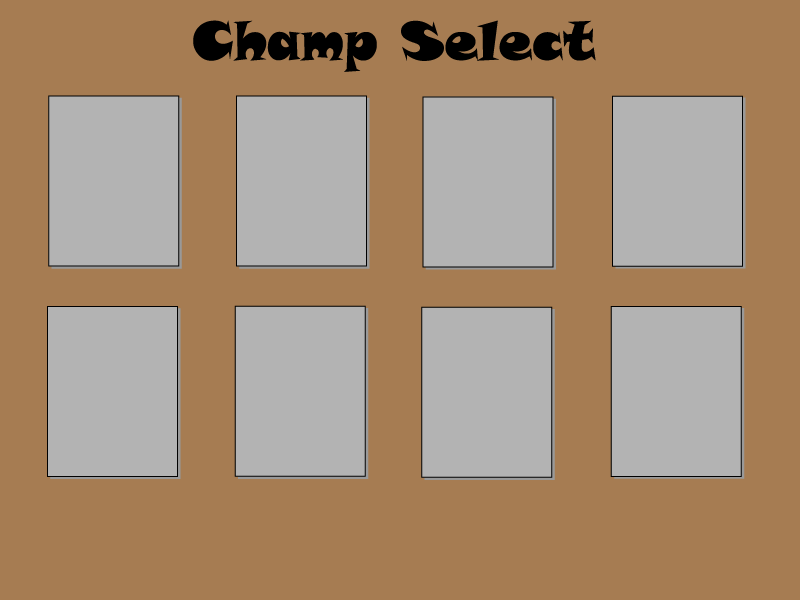
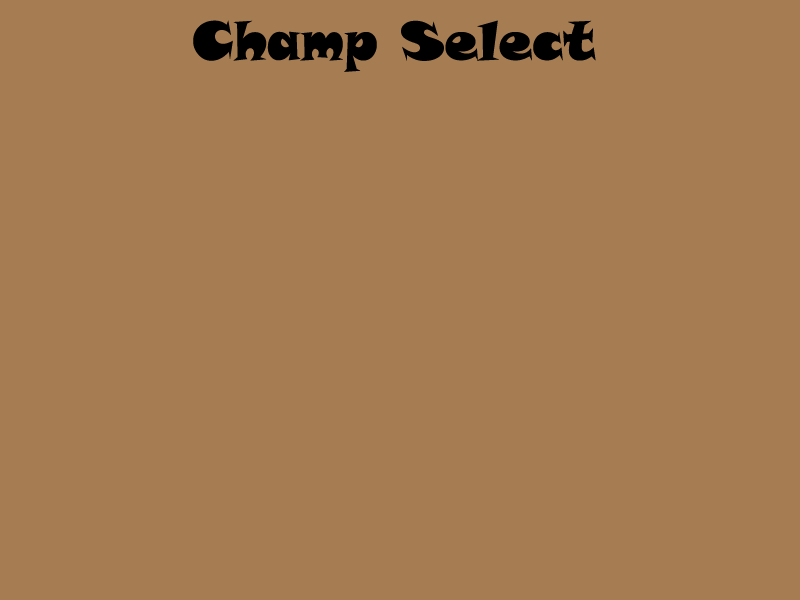
champ_select

diff --git a/play/game.py b/play/game.py
@@ -2,53 +2,119 @@
 
 #import
 import pygame
-from play.character import Player
+import math
+from play.map import Map
+from play.player import Player
+from champ_select.champ_select import Avatar
+
 
 class Game:
 
     def __init__(self, screen) :
-        self.pressed = {}
-        self.player = Player(screen, self.pressed)
+        
+        self.map = Map(screen)
+        # self.player = Player(screen)
+        self.champ_select = Avatar(screen)
+        # Permet de définir la dernière direction du personnage
         self.last_movement = "up"
-        self.validation_movement = False
+        #Calcul le nombre de tour pour changer l'image du personnage
+        self.move = 0
+        self.pressed = {}
+        self.validation_champ_select = True
+        self.selected_champ = False
+        self.avatar_choose = 0
+        self.play = False
+        self.list_image_avatar_x = [self.champ_select.avatar1_image_rect.x, self.champ_select.avatar2_image_rect.x, 
+        self.champ_select.avatar3_image_rect.x, self.champ_select.avatar4_image_rect.x, self.champ_select.avatar5_image_rect.x, 
+        self.champ_select.avatar6_image_rect.x, self.champ_select.avatar7_image_rect.x, self.champ_select.avatar8_image_rect.x]
+
+        self.list_image_avatar_y = [self.champ_select.avatar1_image_rect.y, self.champ_select.avatar2_image_rect.y, 
+        self.champ_select.avatar3_image_rect.y, self.champ_select.avatar4_image_rect.y, self.champ_select.avatar5_image_rect.y, 
+        self.champ_select.avatar6_image_rect.y, self.champ_select.avatar7_image_rect.y, self.champ_select.avatar8_image_rect.y]
+
+        # self.list_avatar = ["avatar1", "avatar2", "avatar3", "avatar4", "avatar5", "avatar6", "avatar7", "avatar8"]
+
 
 
     def update(self, screen):
 
+        # self.player.avatar = self.list_avatar[self.avatar_choose]
+        if self.play :
+            self.movement(screen)
+            screen.blit(self.map.background_desert, self.map.background_desert_rect)
+            screen.blit(self.player.character_image, self.player.character_image_rect)       
 
-        self.movement(screen)
-        screen.blit(self.player.character_image, self.player.character_image_rect)       
+        if self.validation_champ_select :
+            screen.blit(self.champ_select.background_champ_select, (0,0))
+            if self.selected_champ :
+                pygame.draw.rect(screen,(0,0,255),(self.list_image_avatar_x[self.avatar_choose], self.list_image_avatar_y[self.avatar_choose], self.champ_select.avatar1_image.get_width(), self.champ_select.avatar1_image.get_height()))
+            self.champ_select.update(screen)
 
+    def create_player(self, screen, index):
+        self.player = Player(screen, index)
 
     def movement(self, screen) :
 
-        if self.pressed.get(pygame.K_RIGHT) and self.player.character_image_rect.x + self.player.velocity < screen.get_width() - self.player.character_image.get_width():
-            self.player.move_right()
+        # si telle touche est pressée, j'appelle la fonction pour déplacer la carte
+        if self.pressed.get(pygame.K_RIGHT) :# and self.map.background_desert_rect.x + self.player.velocity < self.map.background_desert.get_width():
+            self.move_right()
             self.last_movement = "right"
 
-        elif self.pressed.get(pygame.K_LEFT) and self.player.character_image_rect.x - self.player.velocity > 0:
-            self.player.move_left()
+        elif self.pressed.get(pygame.K_LEFT) :# and self.map.background_desert_rect.x > - 3200 :
+            self.move_left()
             self.last_movement = "left"
 
-        elif self.pressed.get(pygame.K_UP) and self.player.character_image_rect.y - self.player.velocity > 0 :
-            self.player.move_up()
+        elif self.pressed.get(pygame.K_UP) : #and self.map.background_desert_rect.y > - 3200 :
+            self.move_up()
             self.last_movement = "up"
 
-        elif self.pressed.get(pygame.K_DOWN) and self.player.character_image_rect.y + self.player.velocity < screen.get_height() - self.player.character_image.get_height():
-            self.player.move_down()
+        elif self.pressed.get(pygame.K_DOWN): # and self.map.background_desert_rect.y + self.player.velocity < self.map.background_desert.get_height():
+            self.move_down()
             self.last_movement = "down"
 
+
+        # Met dans la position arrêt le personnage
         if self.pressed.get(pygame.K_RIGHT) == False and self.last_movement == "right" :
-            self.player.character_image = pygame.image.load("images/ressources/avatar1/character_right.png")
+            self.player.character_image = pygame.image.load(f"images/ressources/{self.player.avatar}/character_right.png")
 
         elif self.pressed.get(pygame.K_LEFT) == False and self.last_movement == "left" :
-            self.player.character_image = pygame.image.load("images/ressources/avatar1/character_left.png")
+            self.player.character_image = pygame.image.load(f"images/ressources/{self.player.avatar}/character_left.png")
 
         elif self.pressed.get(pygame.K_UP) == False and self.last_movement == "up" :
-            self.player.character_image = pygame.image.load("images/ressources/avatar1/character_up.png")
+            self.player.character_image = pygame.image.load(f"images/ressources/{self.player.avatar}/character_up.png")
 
         elif self.pressed.get(pygame.K_DOWN) == False and self.last_movement == "down" :
-            self.player.character_image = pygame.image.load("images/ressources/avatar1/character_down.png")
+            self.player.character_image = pygame.image.load(f"images/ressources/{self.player.avatar}/character_down.png")
+
+
+
+    def move_right(self):
+
+        self.map.background_desert_rect.x -= self.player.velocity
+        self.change_image(f"images/ressources/{self.player.avatar}/character_right.png", f"images/ressources/{self.player.avatar}/character_right_move.png" )
+
+    def move_left(self):
+        self.map.background_desert_rect.x += self.player.velocity
+        self.change_image(f"images/ressources/{self.player.avatar}/character_left.png", f"images/ressources/{self.player.avatar}/character_left_move.png" )
+
+    def move_up(self):
+        self.map.background_desert_rect.y += self.player.velocity
+        self.change_image(f"images/ressources/{self.player.avatar}/character_up.png", f"images/ressources/{self.player.avatar}/character_up_move.png" )
+
+    def move_down(self):
+        self.map.background_desert_rect.y -= self.player.velocity
+        self.change_image(f"images/ressources/{self.player.avatar}/character_down.png", f"images/ressources/{self.player.avatar}/character_down_move.png" )
+
+    
+    def change_image(self, not_move, move):
+        # Pour chaque tour de boucle, move s'agrémente, a partir de 15 l'image change, et se remet normal au bout de 45 tour 
+        self.move += 1
+        if (self.move >= 0 and self.move <= 15) or self.move >= 45 : 
+            self.player.character_image = pygame.image.load(not_move)
+        else : 
+            self.player.character_image = pygame.image.load(move)
+        if self.move == 60 :
+            self.move = 0 
 
 
         

diff --git a/champ_select/champ_select.py b/champ_select/champ_select.py
@@ -1,0 +1,84 @@
+# coding: utf-8
+
+#import
+import pygame
+import math
+import math
+
+class Avatar :
+
+    def __init__(self, screen):
+
+        
+
+        self.background_champ_select = pygame.image.load("images/bg/background_champ_select.png").convert_alpha()
+        self.background_champ_select = pygame.transform.scale(self.background_champ_select, (screen.get_width(), screen.get_height()))
+
+        self.avatar1_image = pygame.image.load("images/ressources/avatar1/character_down.png")
+        self.avatar1_image = pygame.transform.scale(self.avatar1_image, (math.ceil(screen.get_height() / 6), math.ceil(screen.get_width() / 4)))
+        self.avatar1_image_rect = self.avatar1_image.get_rect()
+        self.avatar1_image_rect.x = math.ceil(screen.get_width() / 15.6)
+        self.avatar1_image_rect.y = screen.get_height() / 4.8
+
+        self.avatar2_image = pygame.image.load("images/ressources/avatar2/character_down.png")
+        self.avatar2_image = pygame.transform.scale(self.avatar2_image, (math.ceil(screen.get_height() / 6), math.ceil(screen.get_width() / 4)))
+        self.avatar2_image_rect = self.avatar2_image.get_rect()
+        self.avatar2_image_rect.x =  math.ceil(screen.get_width() / 3.33)
+        self.avatar2_image_rect.y = self.avatar1_image_rect.y
+
+        self.avatar3_image = pygame.image.load("images/ressources/avatar3/character_down.png")
+        self.avatar3_image = pygame.transform.scale(self.avatar3_image, (math.ceil(screen.get_height() / 6), math.ceil(screen.get_width() / 4)))
+        self.avatar3_image_rect = self.avatar3_image.get_rect()
+        self.avatar3_image_rect.x = math.ceil(screen.get_width() / 1.88)
+        self.avatar3_image_rect.y = self.avatar1_image_rect.y
+
+        self.avatar4_image = pygame.image.load("images/ressources/avatar4/character_down.png")
+        self.avatar4_image = pygame.transform.scale(self.avatar4_image, (math.ceil(screen.get_height() / 6), math.ceil(screen.get_width() / 4)))
+        self.avatar4_image_rect = self.avatar4_image.get_rect()
+        self.avatar4_image_rect.x = math.ceil(screen.get_width() / 1.3)
+        self.avatar4_image_rect.y = self.avatar1_image_rect.y
+
+        self.avatar5_image = pygame.image.load("images/ressources/avatar5/character_down.png")
+        self.avatar5_image = pygame.transform.scale(self.avatar5_image, (math.ceil(screen.get_height() / 6), math.ceil(screen.get_width() / 4)))
+        self.avatar5_image_rect = self.avatar5_image.get_rect()
+        self.avatar5_image_rect.x = math.ceil(screen.get_width() / 15.6)
+        self.avatar5_image_rect.y = screen.get_height() / 1.78
+
+        self.avatar6_image = pygame.image.load("images/ressources/avatar6/character_down.png")
+        self.avatar6_image = pygame.transform.scale(self.avatar6_image, (math.ceil(screen.get_height() / 6), math.ceil(screen.get_width() / 4)))
+        self.avatar6_image_rect = self.avatar6_image.get_rect()
+        self.avatar6_image_rect.x = math.ceil(screen.get_width() / 3.33)
+        self.avatar6_image_rect.y = self.avatar5_image_rect.y
+
+        self.avatar7_image = pygame.image.load("images/ressources/avatar7/character_down.png")
+        self.avatar7_image = pygame.transform.scale(self.avatar7_image, (math.ceil(screen.get_height() / 6), math.ceil(screen.get_width() / 4)))
+        self.avatar7_image_rect = self.avatar7_image.get_rect()
+        self.avatar7_image_rect.x = math.ceil(screen.get_width() / 1.88)
+        self.avatar7_image_rect.y = self.avatar5_image_rect.y
+
+        self.avatar8_image = pygame.image.load("images/ressources/avatar8/character_down.png")
+        self.avatar8_image = pygame.transform.scale(self.avatar8_image, (math.ceil(screen.get_height() / 6), math.ceil(screen.get_width() / 4)))
+        self.avatar8_image_rect = self.avatar8_image.get_rect()
+        self.avatar8_image_rect.x = math.ceil(screen.get_width() / 1.3)
+        self.avatar8_image_rect.y = self.avatar5_image_rect.y
+
+        self.button = pygame.image.load("images/button/button_champ.png").convert_alpha()
+        self.button = pygame.transform.scale(self.button, (math.ceil(screen.get_height() / 2), math.ceil(screen.get_width() / 10 )))
+        self.button_rect = self.button.get_rect()
+        self.button_rect.x = math.ceil(screen.get_width() / 2 - self.button.get_width() / 2)
+        self.button_rect.y = math.ceil(screen.get_height() / 1.15)
+
+        self.list_rect_avatar = [self.avatar1_image_rect, self.avatar2_image_rect, self.avatar3_image_rect, self.avatar4_image_rect, self.avatar5_image_rect, self.avatar6_image_rect, self.avatar7_image_rect, self.avatar8_image_rect]
+        
+
+    def update(self, screen) :
+
+        screen.blit(self.avatar1_image, self.avatar1_image_rect)
+        screen.blit(self.avatar2_image, self.avatar2_image_rect)
+        screen.blit(self.avatar3_image, self.avatar3_image_rect)
+        screen.blit(self.avatar4_image, self.avatar4_image_rect)
+        screen.blit(self.avatar5_image, self.avatar5_image_rect)
+        screen.blit(self.avatar6_image, self.avatar6_image_rect)
+        screen.blit(self.avatar7_image, self.avatar7_image_rect)
+        screen.blit(self.avatar8_image, self.avatar8_image_rect)
+        screen.blit(self.button, self.button_rect)

diff --git a/main.py b/main.py
@@ -9,17 +9,20 @@ from registration.requeteSQL import create_registration
 from registration.registration import user_input
 from getpass import getpass
 from registration.connection import forget_psd
-from champ_select.display_champ_select import champ_select
 # from champ_select.load_character import Avatar
 
 
 
 pygame.init()
 pygame.display.set_caption("Projet 2")
-screen = pygame.display.set_mode((800, 600))
+x_screen = 700
+y_screen = 700
 
-background_forest = pygame.image.load("images/bg/desert.jpg")
-background_champ_select = pygame.image.load("images/bg/background_champ_select.png")
+screen = pygame.display.set_mode((x_screen, y_screen))
+
+
+
+
 clock = pygame.time.Clock()
 
 
@@ -28,23 +31,20 @@ game = Game(screen)
 
 running = True
 # displayer champ_select
-champ_select = True
+
 
 if __name__ == "__main__":
 
     
     while running :
-
-        # while champ_select :
-        #     champ_select(screen, background_champ_select )
-
-        screen.blit(background_forest, (0,0))
         
+        
+
+
         for event in pygame.event.get():
 
             if event.type == pygame.QUIT :
                 running = False
-
 
             elif event.type == pygame.KEYDOWN :
                 game.pressed[event.key] = True
@@ -52,6 +52,16 @@ if __name__ == "__main__":
             elif event.type == pygame.KEYUP :
                 game.pressed[event.key] = False
 
+
+            elif event.type == pygame.MOUSEBUTTONDOWN and game.validation_champ_select == True :
+                for index, avatar in enumerate(game.champ_select.list_rect_avatar) :
+                    if avatar.collidepoint(event.pos) :
+                        game.selected_champ = True
+                        game.avatar_choose = index
+                        game.create_player(screen, index + 1)
+                if game.champ_select.button_rect.collidepoint(event.pos) and game.selected_champ == True :
+                    game.validation_champ_select = False
+                    game.play = True
             
         game.update(screen)
         # clock.tick(120)

diff --git a/play/map.py b/play/map.py
@@ -1,0 +1,38 @@
+# coding: utf-8
+
+#import
+import math
+import pygame
+
+
+
+class Map :
+
+    def __init__(self, screen):
+
+        self.background_desert = pygame.image.load("images/bg/XXL.png")
+        self.background_desert_rect = self.background_desert.get_rect()
+        self.background_desert_rect.x = 0
+        self.background_desert_rect.y = 0
+        self.move = 0
+
+
+
+    
+
+
+
+    # def move_right(self):
+    #     self.character_image_rect.x += self.player.velocity
+    #     self.change_image("images/ressources/avatar1/character_right.png", "images/ressources/avatar1/character_right_move.png" )
+
+    # def move_left(self):
+    #     self.character_image_rect.x -= self.player.velocity
+    #     self.change_image("images/ressources/avatar1/character_left.png", "images/ressources/avatar1/character_left_move.png" )
+
+    # def move_up(self):
+    #     self.character_image_rect.y -= self.player.velocity
+    #     self.change_image("images/ressources/avatar1/character_up.png", "images/ressources/avatar1/character_up_move.png" )
+
+    # def move_down(self):
+    #     self.character_image_rect.y += self.player.velocity

diff --git a/play/player.py b/play/player.py
@@ -1,0 +1,21 @@
+# coding: utf-8
+
+#import
+import math
+import pygame
+
+
+
+class Player :
+
+    def __init__(self, screen, index):
+
+        self.avatar = f'avatar{index}'
+        self.character_image = pygame.image.load(f"images/ressources/{self.avatar}/character_up.png")
+        self.character_image_rect = self.character_image.get_rect()
+        self.character_image_rect.x = math.ceil(screen.get_width() / 2)
+        self.character_image_rect.y = screen.get_height() / 2 - self.character_image.get_height()
+
+        self.health = 10
+        self.velocity = 1
+        self.move = 0

diff --git a/champ_select/display_champ_select.py b/champ_select/display_champ_select.py
@@ -13,11 +13,6 @@ def champ_select(screen, background) :
 
     screen.blit(background, (0,0))
 
-    # for event in pygame.event.get():
-
-    #     # if event.type == pygame.QUIT :
-    #     #     champ_select = False
-
     avatar.update(screen)
     pygame.display.flip()
             # elif event.type == pygame.KEYDOWN :
